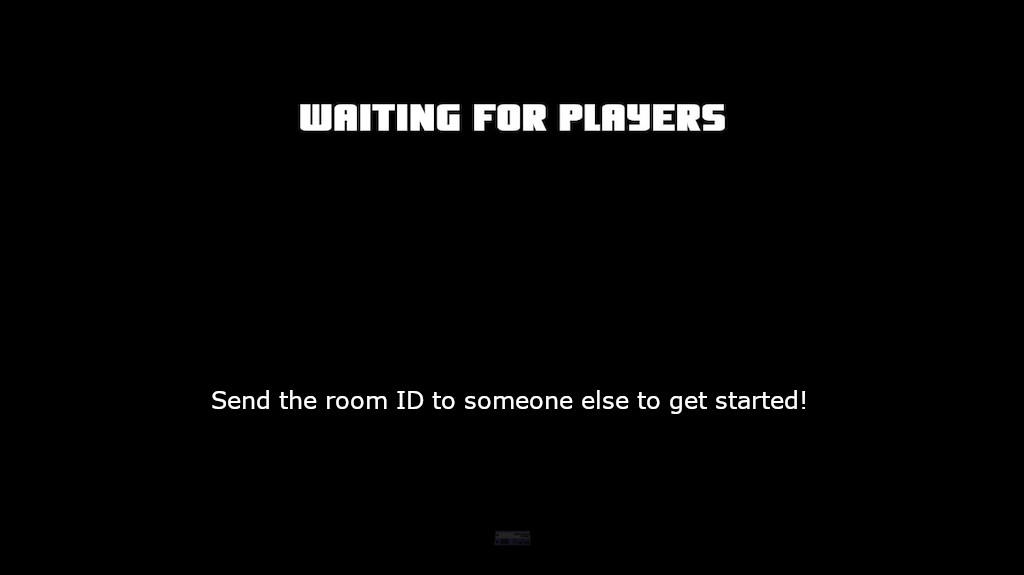
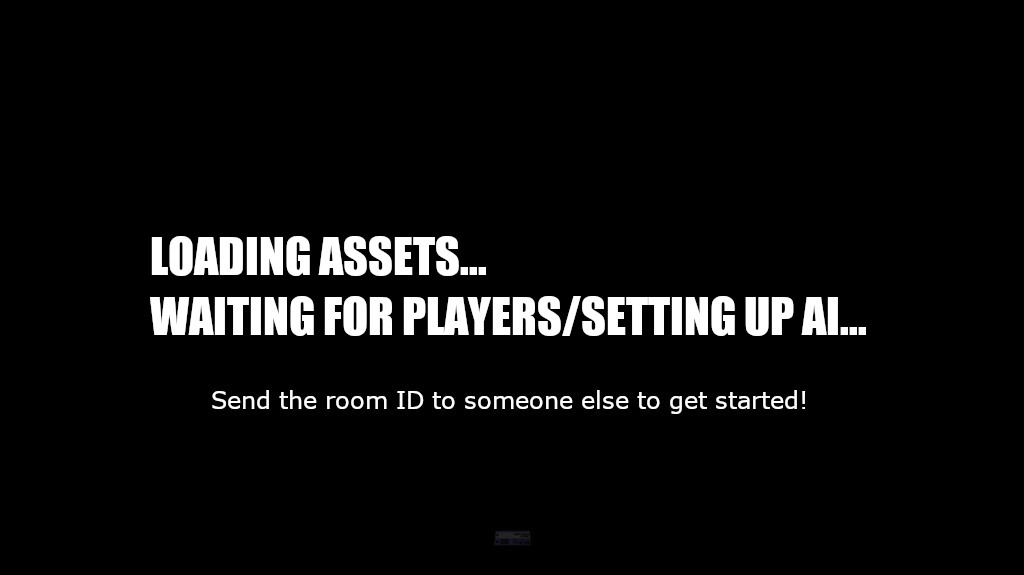
new loading screen

Changed region(s): [[0.125, 0.4139, 0.8438, 0.5913], [0.2812, 0.1774, 0.7188, 0.2365]]

diff --git a/frontend/public/css/play.css b/frontend/public/css/play.css
@@ -136,6 +136,7 @@
     border: 1px solid black;
     background-color: black;
     cursor: default;
+    width: 100px;
     /* background-color: yellow; */
 }
 
@@ -226,6 +227,16 @@
 
 .loading-page {
     background: url(../images/loading.jpg);
+    background-repeat: no-repeat;
+    background-position: center;
+    background-size: cover;
+    width: 100%;
+    display: flex;
+    justify-content: center;
+}
+
+.loading-page2 {
+    background: url(../images/loading.gif);
     background-repeat: no-repeat;
     background-position: center;
     background-size: cover;

diff --git a/frontend/src/components/game/play/play.jsx b/frontend/src/components/game/play/play.jsx
@@ -872,6 +872,7 @@ class Play extends React.Component {
       </div>
     )
   }
+  
 
   render() {
     let roomId;
@@ -923,9 +924,6 @@ class Play extends React.Component {
         <div id="gameplay-header">
           Room ID: <span>{roomId}</span>
         </div>
-
-        
-
         <div id="preload-div" style={{ display: 'none', width: '0px', height: '0px' }}>
           {this.preloadImages()}
         </div>
